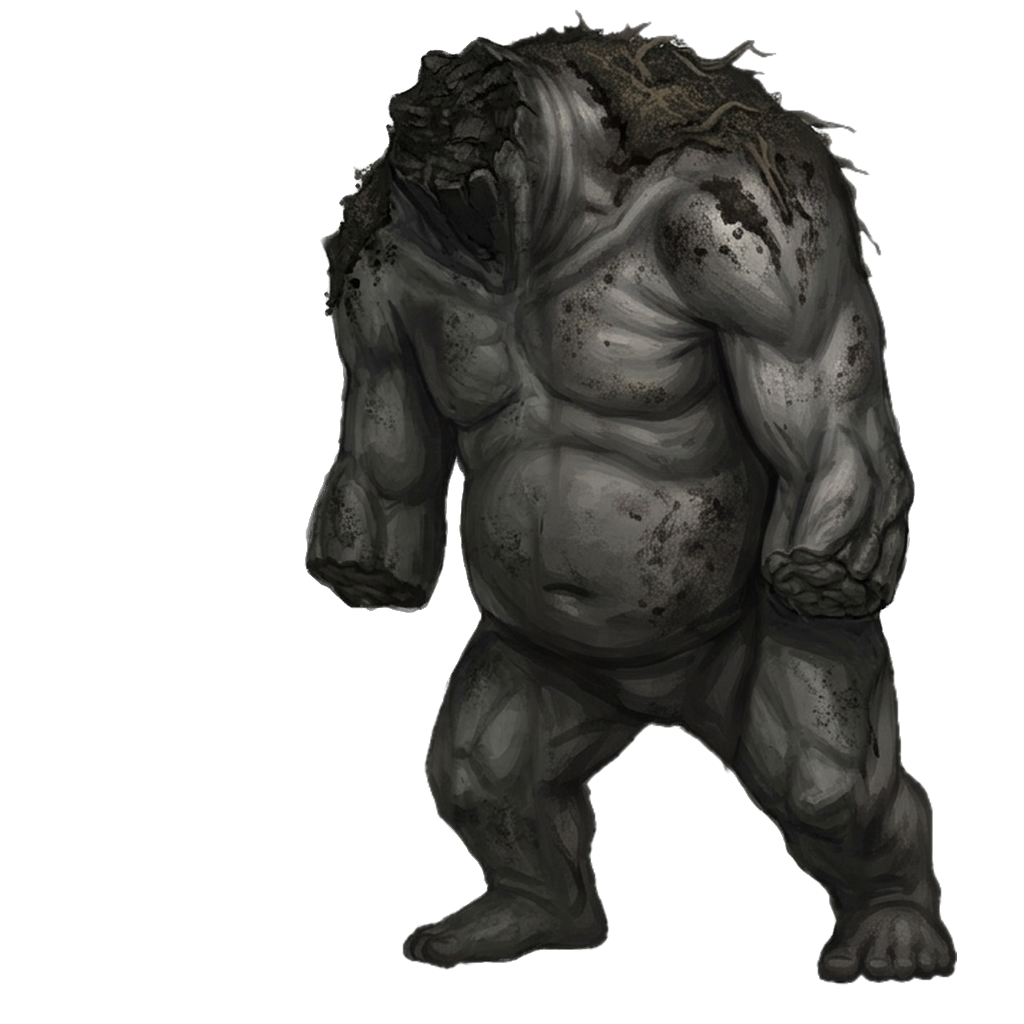
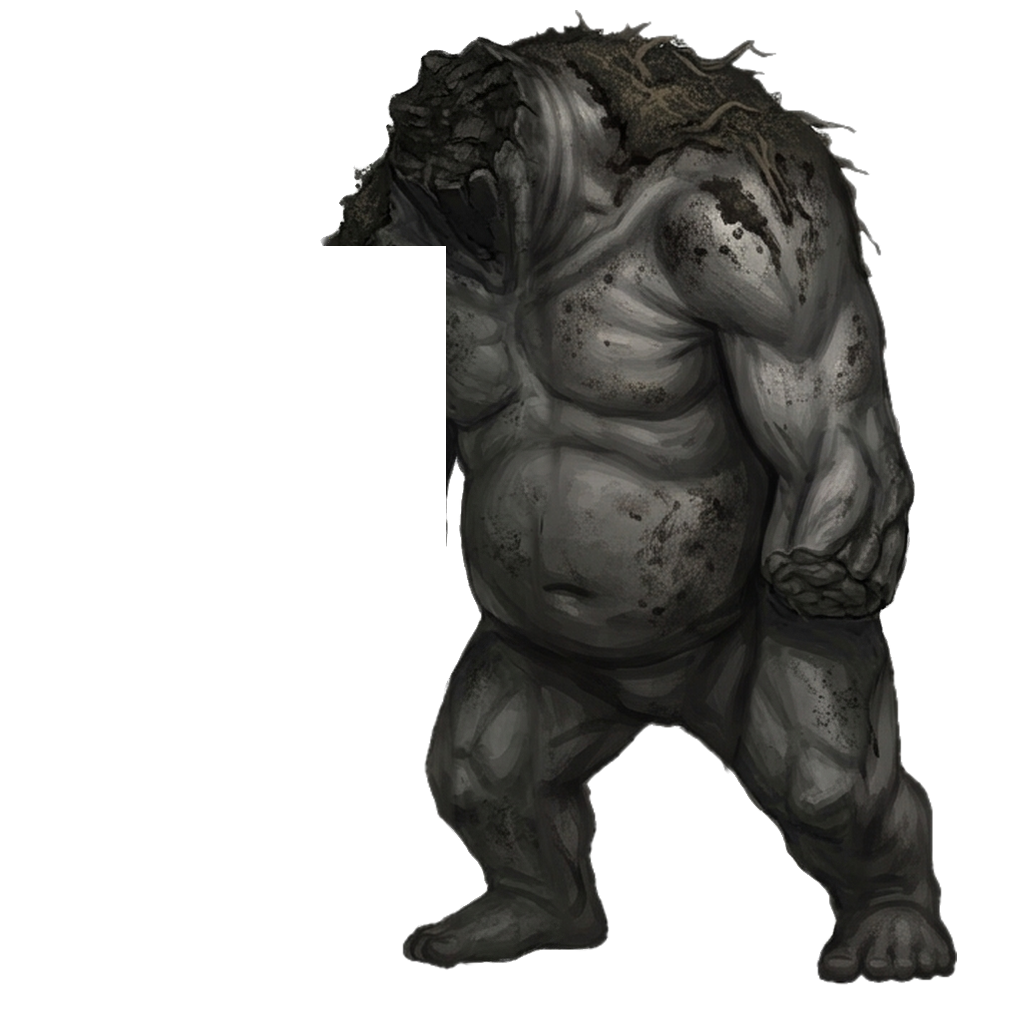
Every werewolf card has a beast side and tells both; the moon gathered becomes the beast's fury; the Viy's hidden arm is its own part
- A werewolf card without a beast side of its own gets one by rule: its blows leave the wound
  bleeding (or strike harder when they land on no one in particular), and block it would give
  itself bristles into thorns. Both sides are told on the card.
- Turning into the beast, the Volkolak gains a Strength for every two Moon gathered, kept while
  he stays the beast: the full moon is worth waiting for.
- The Viy's left arm hung hidden behind its hair: it is cut out into its own part and laid over
  the hair, so the Viy at rest has both arms.

Changed region(s): [[0.2812, 0.2188, 0.4375, 0.5938]]

diff --git a/crates/core/src/data.rs b/crates/core/src/data.rs
@@ -331,9 +331,54 @@ impl CardDef {
             if upgraded {
                 layer(&self.beast_up);
             }
+        } else if form == Form::Beast && self.hero == "volkolak" {
+            // every card of the werewolf has a beast side: one written for it, or this one
+            let mut fx = beastly(&v.effects, v.cost);
+            // a blow that bleeds no one in particular is struck the harder instead
+            if v.kind == CardType::Attack && fx == v.effects {
+                fx.insert(0, Effect::Apply(StatusKind::TempStrength, Amount::N(2), Tgt::Me));
+            }
+            v.effects = fx;
         }
         v
     }
+
+    /// Whether this card reads differently in the two forms, so both sides are worth telling.
+    pub fn two_sided(&self, upgraded: bool) -> bool {
+        let (a, b) = (self.view(upgraded, Form::Human), self.view(upgraded, Form::Beast));
+        a.effects != b.effects || a.cost != b.cost || a.kind != b.kind || a.target != b.target || a.keywords != b.keywords
+    }
+}
+
+/// The beast side of a werewolf card with none of its own: its blows tear and leave the wound
+/// bleeding, and the block it would give itself (the beast gets none from its own cards)
+/// bristles into thorns instead. Help for others, draws and powers stay as they are.
+fn beastly(effects: &[Effect], cost: i32) -> Vec<Effect> {
+    let bleed = if cost >= 2 { 2 } else { 1 };
+    let mut out = Vec::new();
+    let mut bled = false;
+    for e in effects {
+        match e {
+            Effect::Block(a, Tgt::Me) => {
+                let n = match a {
+                    Amount::N(n) => (*n / 3).max(1),
+                    _ => 2,
+                };
+                out.push(Effect::Apply(StatusKind::Thorns, Amount::N(n), Tgt::Me));
+            }
+            Effect::Damage(_, t) | Effect::Hits(_, _, t) => {
+                out.push(e.clone());
+                if !bled && matches!(t, Tgt::Target | Tgt::AllFoes | Tgt::WeakestFoe) {
+                    bled = true;
+                    out.push(Effect::Apply(StatusKind::Bleed, Amount::N(bleed), *t));
+                }
+            }
+            Effect::If(c, a, b) => out.push(Effect::If(c.clone(), beastly(a, cost), beastly(b, cost))),
+            Effect::Repeat(n, body) => out.push(Effect::Repeat(n.clone(), beastly(body, cost))),
+            other => out.push(other.clone()),
+        }
+    }
+    out
 }
 
 #[derive(Clone, Debug, PartialEq, Eq, Hash, Serialize, Deserialize)]

diff --git a/crates/core/tests/rules.rs b/crates/core/tests/rules.rs
@@ -564,7 +564,8 @@ fn beast_form_flips_cards_and_bans_own_block() {
     play(&c, &mut s, 0, "t_shift", None);
     assert_eq!(s.heroes[0].form, Form::Beast);
     play(&c, &mut s, 0, "t_claw", Some(t));
-    assert_eq!((s.enemies[0].hp, s.status(t, S::Bleed)), (81, 2));
+    // one moon gathered: a Strength of fury, half again as a beast's blow
+    assert_eq!((s.enemies[0].hp, s.status(t, S::Bleed)), (79, 2));
     play(&c, &mut s, 0, "t_block", None);
     assert_eq!(s.heroes[0].block, 0);
     end_round(&c, &mut s);
@@ -1457,4 +1458,36 @@ fn only_a_werewolf_turns_into_the_beast() {
     assert_eq!(s.heroes[0].form, Form::Human, "an echo of the wolf's card changes no one else");
     play(&c, &mut s, 0, "t_block", None);
     assert_eq!(s.heroes[0].block, 5);
+}
+
+
+#[test]
+fn the_moon_gathered_as_a_man_is_the_beasts_fury() {
+    let c = content();
+    let (mut s, _) = start(&c, &[hero("t_moon", &["t_hit", "t_hit", "t_hit", "t_hit", "t_hit", "t_shift"])], &ids(&["dummy"]), 7);
+    s.heroes[0].energy = 10;
+    // the five blows in hand, the shift kept for after
+    let h = &mut s.heroes[0];
+    let mut all: Vec<Card> = h.hand.drain(..).chain(h.draw.drain(..)).collect();
+    let shift = all.iter().position(|c| c.def == "t_shift").unwrap();
+    let shift = all.remove(shift);
+    h.hand = all;
+    for _ in 0..5 {
+        let foe = foe(&s, 0);
+        play(&c, &mut s, 0, "t_hit", Some(foe));
+    }
+    assert_eq!(s.heroes[0].form, Form::Beast);
+    assert_eq!(s.status(UnitRef::Hero(0), StatusKind::Strength), 3, "a full moon: three");
+    s.heroes[0].hand.push(shift);
+    play(&c, &mut s, 0, "t_shift", None);
+    assert_eq!(s.heroes[0].form, Form::Human);
+    assert_eq!(s.status(UnitRef::Hero(0), StatusKind::Strength), 0, "the fury goes with the beast");
+}
+
+#[test]
+fn every_werewolf_card_has_a_beast_side() {
+    let c = content();
+    for d in c.cards.values().filter(|d| d.hero == "volkolak" && d.kind == CardType::Attack) {
+        assert!(d.two_sided(false), "{}", d.id);
+    }
 }

diff --git a/crates/game/src/battle/rig.rs b/crates/game/src/battle/rig.rs
@@ -86,7 +86,8 @@ const FIGURES: &[(&str, &[Cut])] = &[
     ("enemies/vodyanoy", &[(Part::Head, Vec2::new(0.492, 0.31), 1.0), (Part::Shield, Vec2::new(0.703, 0.365), 0.8), (Part::Arm, Vec2::new(0.332, 0.388), 1.0)]),
     ("enemies/chuchelo", &[(Part::Head, Vec2::new(0.51, 0.2), 0.8), (Part::Shield, Vec2::new(0.68, 0.431), 0.7), (Part::Arm, Vec2::new(0.311, 0.431), 0.7)]),
     ("enemies/verlioka", &[(Part::Head, Vec2::new(0.44, 0.253), 1.0), (Part::Shield, Vec2::new(0.733, 0.359), 0.8), (Part::Arm, Vec2::new(0.308, 0.3), 0.5)]),
-    ("enemies/viy", &[(Part::Head, Vec2::new(0.42, 0.2), 0.4), (Part::Arm, Vec2::new(0.845, 0.422), 1.0)]),
+    // the left arm hung hidden behind the hair, and the Viy looked one-armed: it is laid over it
+    ("enemies/viy", &[(Part::Head, Vec2::new(0.42, 0.2), 0.4), (Part::Shield, Vec2::new(0.37, 0.25), 0.3), (Part::Arm, Vec2::new(0.845, 0.422), 1.0)]),
     ("heroes/znaharka", &[(Part::Shield, Vec2::new(0.40, 0.40), 0.7), (Part::Head, Vec2::new(0.61, 0.20), 0.9), (Part::Arm, Vec2::new(0.73, 0.40), -0.6)]),
     // the "shield" is his chimney, which only rocks; the arm holds the bucket and the pike
     ("heroes/emelya", &[(Part::Shield, Vec2::new(0.30, 0.30), 0.35), (Part::Head, Vec2::new(0.445, 0.30), 0.9), (Part::Arm, Vec2::new(0.62, 0.27), 0.8)]),

diff --git a/crates/game/src/battle.rs b/crates/game/src/battle.rs
@@ -1706,7 +1706,14 @@ pub fn card_face(c: &mut ChildSpawnerCommands, card: &Card, def: &CardDef, form:
             c.spawn((theme::text(line, &fonts.body, 14.0, gem.unwrap_or(theme::DIM)), Node { margin: UiRect::vertical(px(2)), ..default() }));
             // a long text shrinks to stay on the card: about 110 letters fit at full size, and
             // what this guess misses is measured and brought in by `fit_text`
-            let text = l10n.card_text(&card.def, def, &view);
+            let mut text = l10n.card_text(&card.def, def, &view);
+            // a werewolf card tells its other side too, so the turn holds no surprise
+            if def.hero == "volkolak" && def.two_sided(card.upgraded) {
+                let other = if form == Form::Beast { Form::Human } else { Form::Beast };
+                let side = l10n.card_text(&card.def, def, &def.view(card.upgraded, other));
+                text = format!("{text}
+{}: {side}", l10n.t(&format!("side-{other:?}")));
+            }
             let size = (18.0 * (110.0 / text.chars().count().max(1) as f32).sqrt()).clamp(12.0, 18.0);
             c.spawn((
                 theme::text(text, &fonts.body, size, theme::BONE),

diff --git a/crates/core/src/combat.rs b/crates/core/src/combat.rs
@@ -1047,9 +1047,20 @@ impl<'a> Exec<'a> {
             return;
         }
         let h = self.hero(p);
-        h.form = if h.form == Form::Human { Form::Beast } else { Form::Human };
+        let to_beast = h.form == Form::Human;
+        // the moon gathered as a man is the beast's fury: a Strength for every two, kept while it
+        // stays a beast, so waiting for the full moon pays and turning early costs it
+        let fury = if to_beast { (h.moon + 1) / 2 } else { h.flags.remove("lunar_fury").unwrap_or(0) };
+        h.form = if to_beast { Form::Beast } else { Form::Human };
         h.moon = 0;
         let form = h.form;
+        if to_beast && fury > 0 {
+            self.hero(p).flags.insert("lunar_fury".into(), fury);
+            self.add_status(UnitRef::Hero(p), S::Strength, fury);
+        } else if !to_beast && fury > 0 {
+            let has = self.s.status(UnitRef::Hero(p), S::Strength);
+            self.add_status(UnitRef::Hero(p), S::Strength, -fury.min(has.max(0)));
+        }
         self.ev.push(Event::Shifted { player: p, form });
         self.fire(p, Trigger::Shifted);
     }
